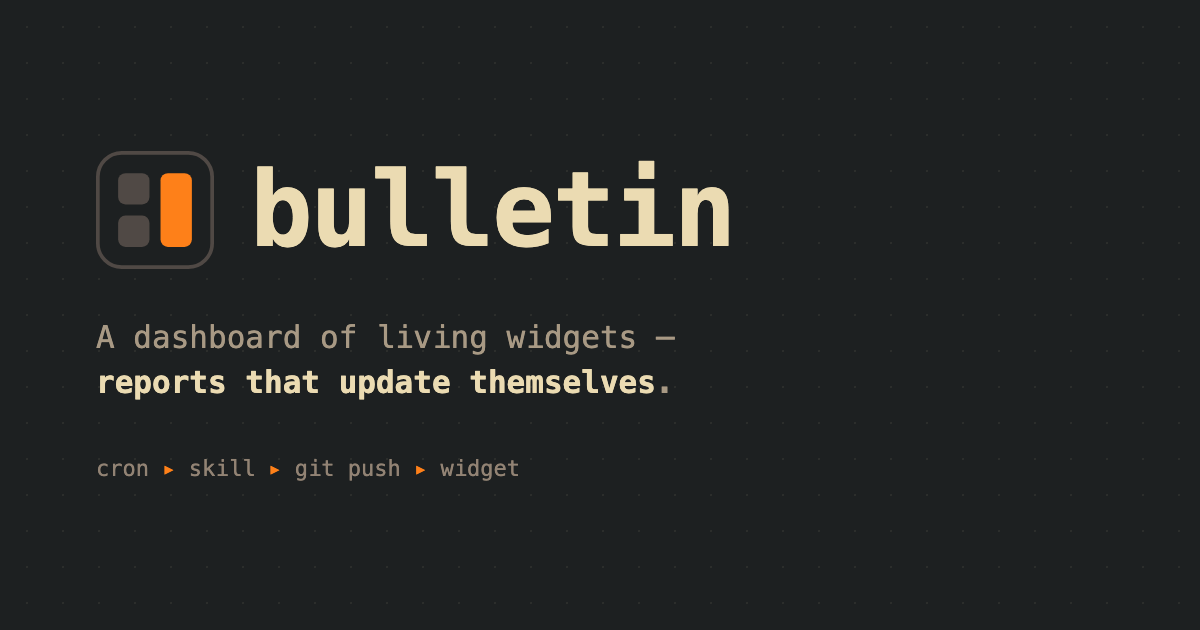
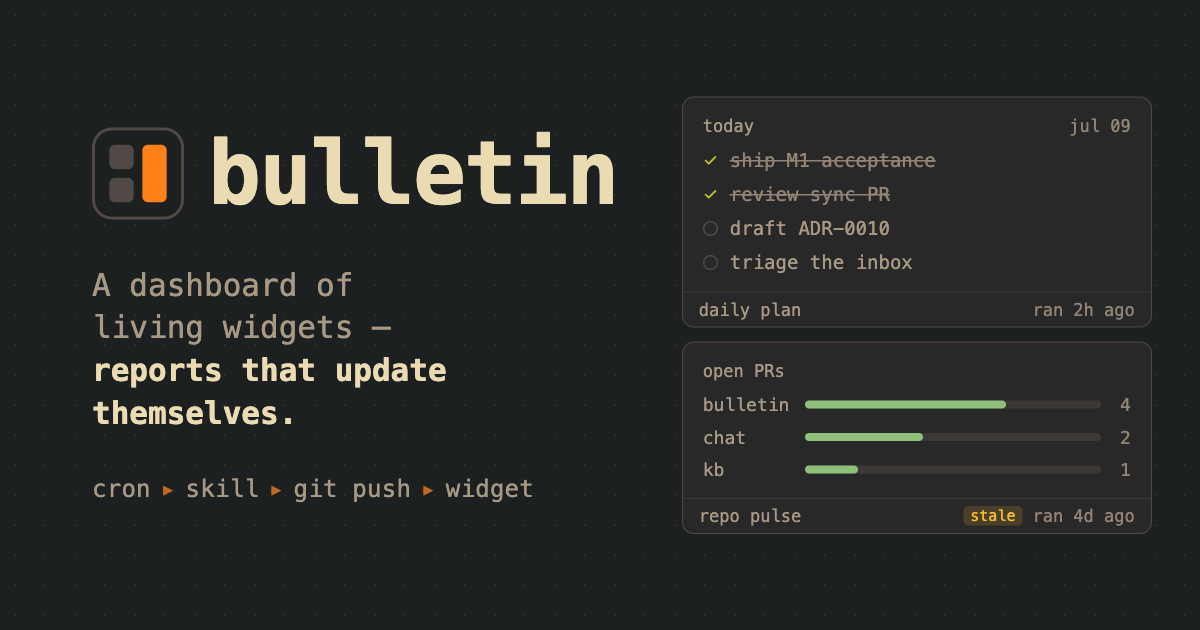
design: landing page with a living demo board
Redesign the anonymous landing into a two-column layout: the pitch and
one GitHub sign-in on the left, a faux 'living board' (real widget chrome
— cards, freshness footers, a stale badge) on the right, so the page
shows the product instead of describing it. Add a terminal-caret blink to
the wordmark's orange cursor block on the landing (reduced-motion safe),
regenerate the OG social card, and center the header cluster divider.

Claude-Session: https://claude.ai/code/session_01BVfdHB311Efg3iQ5nnqrMq

diff --git a/apps/web/app/routes/home.tsx b/apps/web/app/routes/home.tsx
@@ -3,7 +3,7 @@ import { data, Form, Link, redirect, useRevalidator } from "react-router"
 
 import type { Routine, WidgetSize } from "@bulletin/schema"
 import { GRID_MAX_COLS } from "@bulletin/schema"
-import { LayoutGrid, Plus, Settings } from "lucide-react"
+import { Check, LayoutGrid, Plus, Settings } from "lucide-react"
 
 import type { Route } from "./+types/home"
 import { AddRoutineDialog } from "../components/add-routine-dialog.tsx"
@@ -296,7 +296,7 @@ function Dashboard({
             />
           </div>
 
-          <Separator orientation="vertical" className="h-4!" />
+          <Separator orientation="vertical" className="h-4! self-center!" />
 
           <div className="flex items-center gap-1">
             <Link
@@ -456,27 +456,227 @@ function HeaderAction({
 function Landing() {
   const t = useT()
   return (
-    <main className="landing-bg grid min-h-dvh place-items-center px-4 sm:px-6">
-      <div className="w-full max-w-md pb-16">
-        <h1>
-          <Wordmark className="text-4xl" />
-        </h1>
-        <p className="mt-6 text-[15px] leading-relaxed text-balance">
-          {t("landing.tagline")}
-        </p>
-        <p className="mt-2 text-sm text-muted-foreground">{t("landing.sub")}</p>
-        <a
-          href="/auth/login"
-          className={cn(buttonVariants({ size: "lg" }), "mt-7")}
-        >
-          {t("landing.signIn")}
-        </a>
-        <p className="mt-4 text-xs leading-relaxed text-ink-faint">
-          {t("landing.privacy")}
-        </p>
+    <main className="landing-bg min-h-dvh">
+      <div className="mx-auto flex min-h-dvh max-w-6xl flex-col justify-center gap-12 px-4 py-16 sm:px-6 lg:grid lg:grid-cols-[minmax(0,1fr)_minmax(0,1.05fr)] lg:items-center lg:gap-16">
+        {/* Left: the pitch and the one action. */}
+        <div className="max-w-md">
+          <h1>
+            <Wordmark live className="text-4xl sm:text-5xl" />
+          </h1>
+          <p className="mt-7 text-lg leading-snug text-pretty text-foreground">
+            {t("landing.tagline")}
+          </p>
+          <p className="mt-2 font-mono text-sm text-ink-dim">
+            {t("landing.sub")}
+          </p>
+
+          <a
+            href="/auth/login"
+            className={cn(buttonVariants({ size: "lg" }), "mt-8 gap-2")}
+          >
+            <GithubMark className="size-4" />
+            {t("landing.signIn")}
+          </a>
+          <p className="mt-4 max-w-xs text-xs leading-relaxed text-ink-faint">
+            {t("landing.privacy")}
+          </p>
+
+          {/* The mechanism in four tokens — the same pipeline the OG card
+              carries. Git words stay untranslated (DESIGN.md). */}
+          <p className="mt-10 flex flex-wrap items-center gap-x-2 gap-y-1 font-mono text-xs text-ink-faint">
+            <PipeStep>cron</PipeStep>
+            <PipeArrow />
+            <PipeStep>skill</PipeStep>
+            <PipeArrow />
+            <PipeStep>git push</PipeStep>
+            <PipeArrow />
+            <PipeStep>widget</PipeStep>
+          </p>
+        </div>
+
+        {/* Right: the product itself — a small living board. Decorative, so
+            it's hidden from assistive tech; the pitch carries the meaning. */}
+        <DemoBoard />
       </div>
     </main>
   )
+}
+
+function PipeStep({ children }: { children: React.ReactNode }) {
+  return <span className="text-ink-dim">{children}</span>
+}
+
+function PipeArrow() {
+  return (
+    <span aria-hidden className="text-primary/70">
+      ▸
+    </span>
+  )
+}
+
+/** The GitHub mark, currentColor so it inherits the button's ink. */
+function GithubMark({ className }: { className?: string }) {
+  return (
+    <svg
+      viewBox="0 0 16 16"
+      aria-hidden
+      fill="currentColor"
+      className={className}
+    >
+      <path d="M8 0C3.58 0 0 3.58 0 8c0 3.54 2.29 6.53 5.47 7.59.4.07.55-.17.55-.38 0-.19-.01-.82-.01-1.49-2.01.37-2.53-.49-2.69-.94-.09-.23-.48-.94-.82-1.13-.28-.15-.68-.52-.01-.53.63-.01 1.08.58 1.23.82.72 1.21 1.87.87 2.33.66.07-.52.28-.87.51-1.07-1.78-.2-3.64-.89-3.64-3.95 0-.87.31-1.59.82-2.15-.08-.2-.36-1.02.08-2.12 0 0 .67-.21 2.2.82.64-.18 1.32-.27 2-.27.68 0 1.36.09 2 .27 1.53-1.04 2.2-.82 2.2-.82.44 1.1.16 1.92.08 2.12.51.56.82 1.27.82 2.15 0 3.07-1.87 3.75-3.65 3.95.29.25.54.73.54 1.48 0 1.07-.01 1.93-.01 2.2 0 .21.15.46.55.38A8.01 8.01 0 0 0 16 8c0-4.42-3.58-8-8-8Z" />
+    </svg>
+  )
+}
+
+// --- Landing demo board -----------------------------------------------------
+// A faux dashboard rendered in the real widget chrome (card + freshness
+// footer), so the landing shows the product instead of describing it. Content
+// is illustrative; colors are tokens only. Widget artifacts here are plain
+// markup, not iframes — this never touches a real routine.
+
+function DemoBoard() {
+  const t = useT()
+  return (
+    <div className="flex w-full max-w-md items-start gap-3 max-lg:mx-auto">
+      {/* Left column: one tall widget. */}
+      <DemoWidget name="daily plan" ago="ran 2h ago" className="flex-1">
+        <p className="mb-3 flex items-center justify-between font-mono text-[11px] text-ink-dim">
+          today
+          <span className="text-ink-faint">jul 09</span>
+        </p>
+        <ul className="space-y-2.5 text-xs">
+          <Task done>ship M1 acceptance</Task>
+          <Task done>review sync PR</Task>
+          <Task>draft ADR-0010</Task>
+          <Task>triage the inbox</Task>
+          <Task>merge appearance branch</Task>
+          <Task>reply to design thread</Task>
+        </ul>
+        <div className="mt-4 flex items-center gap-2 font-mono text-[11px] text-ink-faint">
+          <span className="h-1.5 flex-1 overflow-hidden rounded-full bg-bg3">
+            <span
+              className="block h-full rounded-full bg-green"
+              style={{ width: "33%" }}
+            />
+          </span>
+          2/6
+        </div>
+      </DemoWidget>
+
+      {/* Right column: two stacked widgets, ~matching the tall one. */}
+      <div className="flex flex-1 flex-col gap-3">
+        <DemoWidget name="repo pulse" ago="ran 14m ago">
+          <p className="mb-2.5 font-mono text-[11px] text-ink-dim">open PRs</p>
+          <div className="space-y-2">
+            <PulseRow label="bulletin" fill="68%" n={4} />
+            <PulseRow label="chat" fill="40%" n={2} />
+            <PulseRow label="kb" fill="18%" n={1} />
+          </div>
+        </DemoWidget>
+
+        <DemoWidget
+          name="changelog"
+          ago="ran 4d ago"
+          stale
+          staleLabel={t("widget.stale")}
+        >
+          <p className="mb-2.5 font-mono text-[11px] text-ink-dim">this week</p>
+          <div className="space-y-2">
+            <SkeletonLine w="w-full" />
+            <SkeletonLine w="w-4/5" />
+            <SkeletonLine w="w-11/12" />
+            <SkeletonLine w="w-2/3" />
+          </div>
+        </DemoWidget>
+      </div>
+    </div>
+  )
+}
+
+function DemoWidget({
+  name,
+  ago,
+  stale = false,
+  staleLabel,
+  className,
+  children,
+}: {
+  name: string
+  ago: string
+  stale?: boolean
+  staleLabel?: string
+  className?: string
+  children: React.ReactNode
+}) {
+  return (
+    <div
+      className={cn(
+        "flex flex-col overflow-hidden rounded-lg border bg-card",
+        className,
+      )}
+    >
+      <div className="min-h-0 flex-1 p-3">{children}</div>
+      <footer className="flex items-center justify-between gap-2 border-t border-border-dim px-2 py-[3px] text-[11px]">
+        <span className="truncate text-ink-dim">{name}</span>
+        <span className="flex shrink-0 items-center gap-1.5 font-mono text-ink-faint">
+          {stale && (
+            <span className="rounded bg-yellow/15 px-1 text-[10px] text-yellow">
+              {staleLabel}
+            </span>
+          )}
+          {ago}
+        </span>
+      </footer>
+    </div>
+  )
+}
+
+function Task({
+  done = false,
+  children,
+}: {
+  done?: boolean
+  children: React.ReactNode
+}) {
+  return (
+    <li className="flex items-center gap-2">
+      {done ? (
+        <Check className="size-3 shrink-0 text-green" />
+      ) : (
+        <span className="size-3 shrink-0 rounded-full border border-border" />
+      )}
+      <span className={done ? "text-ink-faint line-through" : "text-ink-dim"}>
+        {children}
+      </span>
+    </li>
+  )
+}
+
+function PulseRow({
+  label,
+  fill,
+  n,
+}: {
+  label: string
+  fill: string
+  n: number
+}) {
+  return (
+    <div className="flex items-center gap-2 font-mono text-[11px]">
+      <span className="w-16 shrink-0 truncate text-ink-dim">{label}</span>
+      <span className="h-1.5 flex-1 overflow-hidden rounded-full bg-bg3">
+        <span
+          className="block h-full rounded-full bg-aqua"
+          style={{ width: fill }}
+        />
+      </span>
+      <span className="w-3 shrink-0 text-right text-ink-faint">{n}</span>
+    </div>
+  )
+}
+
+function SkeletonLine({ w }: { w: string }) {
+  return <span className={cn("block h-2 rounded-full bg-bg3", w)} />
 }
 
 function EmptyDashboard({ onAdd }: { onAdd: () => void }) {

diff --git a/apps/web/app/app.css b/apps/web/app/app.css
@@ -150,6 +150,28 @@
     );
     background-size: 24px 24px;
   }
+
+  /* The mark's orange block is the wordmark's trailing caret; on the landing
+     it blinks like a terminal cursor — the one signature motion, "the board,
+     still being written." Hard on/off (steps) reads as a caret, not a fade. */
+  @keyframes logo-cursor-blink {
+    0%,
+    45% {
+      opacity: 1;
+    }
+    55%,
+    100% {
+      opacity: 0.28;
+    }
+  }
+  .logo-cursor {
+    animation: logo-cursor-blink 1.15s steps(1, end) infinite;
+  }
+  @media (prefers-reduced-motion: reduce) {
+    .logo-cursor {
+      animation: none;
+    }
+  }
 }
 
 /* Dashboard grid (docs/widget-standard.md): 4 columns on desktop, 2 on

diff --git a/apps/web/app/components/logo.tsx b/apps/web/app/components/logo.tsx
@@ -6,7 +6,14 @@ import { cn } from "~/lib/utils"
  * written. Mirrored as static SVG in public/favicon.svg and public/og.png;
  * keep the three geometries in sync.
  */
-export function Logo({ className }: { className?: string }) {
+export function Logo({
+  className,
+  live,
+}: {
+  className?: string
+  /** Blink the orange cursor block like a terminal caret (landing only). */
+  live?: boolean
+}) {
   return (
     <svg viewBox="0 0 64 64" aria-hidden className={cn("shrink-0", className)}>
       <rect width="64" height="64" rx="14" className="fill-bg" />
@@ -42,14 +49,20 @@ export function Logo({ className }: { className?: string }) {
         width="17"
         height="40"
         rx="4"
-        className="fill-primary"
+        className={cn("fill-primary", live && "logo-cursor")}
       />
     </svg>
   )
 }
 
 /** Mark + name lockup; the mark scales with the surrounding font size. */
-export function Wordmark({ className }: { className?: string }) {
+export function Wordmark({
+  className,
+  live,
+}: {
+  className?: string
+  live?: boolean
+}) {
   return (
     <span
       className={cn(
@@ -57,7 +70,7 @@ export function Wordmark({ className }: { className?: string }) {
         className,
       )}
     >
-      <Logo className="size-[1.4em]" />
+      <Logo live={live} className="size-[1.4em]" />
       bulletin
     </span>
   )